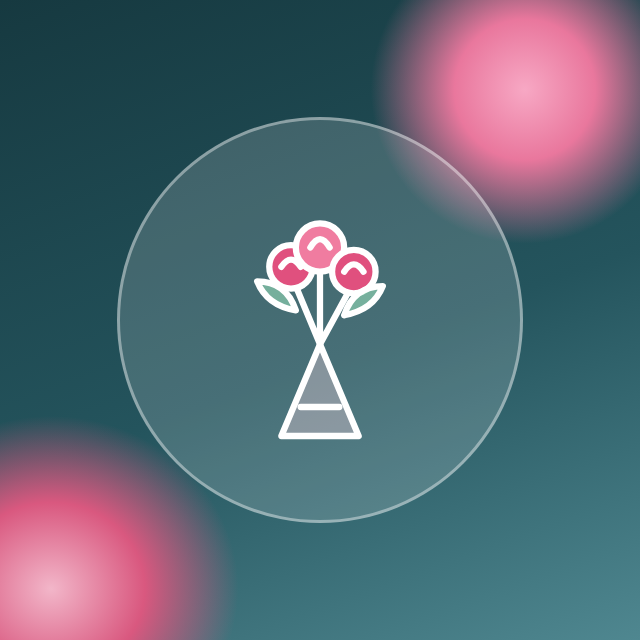
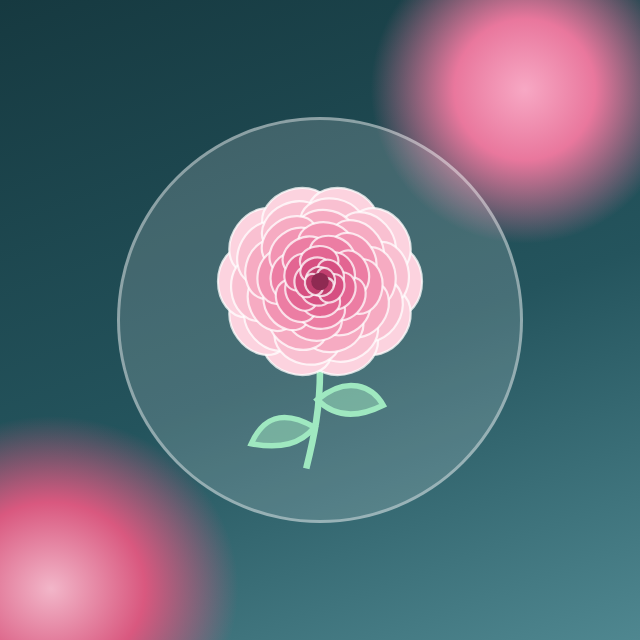
Фирменный цветок — ранункулюс вместо вазы
- brand/ranunculus.svg: многослойный ранункулюс с округлыми лепестками по спирали
- в кассе: логотип в шапке, значок вкладки, рисунок в пустых экранах (miniapp/img/)
- аватар и обложка бота перерисованы с ранункулюсом

Changed region(s): [[0.3125, 0.2812, 0.6875, 0.75]]

diff --git a/miniapp/js/app.js b/miniapp/js/app.js
@@ -37,19 +37,10 @@
     var h = new Date(Date.now() + 5 * 3600000).getUTCHours(); // время Алматы
     return h >= 5 && h < 12 ? 'Доброе утро' : h < 18 && h >= 12 ? 'Добрый день' : 'Добрый вечер';
   }
-  /** Линейный рисунок-букет для пустых экранов (без внешних файлов). */
-  var BOUQUET_SVG = '<svg viewBox="0 0 120 120" width="112" height="112" aria-hidden="true" fill="none" stroke="currentColor" stroke-width="2.2" stroke-linecap="round" stroke-linejoin="round">' +
-    '<path d="M44 108 L60 70 L76 108 Z" fill="rgba(252,214,226,.18)"/>' +
-    '<path d="M60 70 L50 46 M60 70 L60 40 M60 70 L72 48"/>' +
-    '<circle cx="48" cy="38" r="9" fill="rgba(224,80,126,.55)"/><circle cx="60" cy="30" r="10" fill="rgba(240,124,160,.6)"/><circle cx="74" cy="40" r="9" fill="rgba(224,80,126,.55)"/>' +
-    '<path d="M44 38 q4 -6 8 0 M56 30 q4 -7 8 0 M70 40 q4 -6 8 0"/>' +
-    '<path d="M50 56 q-12 -2 -16 -12 q12 0 16 12 M70 58 q12 -2 16 -12 q-12 0 -16 12" fill="rgba(159,232,192,.25)"/>' +
-    '<path d="M52 96 h16"/></svg>';
-
   /** Пустое состояние: рисунок, заголовок, пояснение, необязательная кнопка. */
   function emptyState(titleText, text, action) {
-    var pic = el('div', { class: 'empty__pic' });
-    pic.innerHTML = BOUQUET_SVG;
+    // Ранункулюс — фирменный цветок кассы (img/ranunculus.svg, тот же, что на аватаре бота).
+    var pic = el('div', { class: 'empty__pic' }, [el('img', { src: 'img/ranunculus.svg', width: '112', height: '112', alt: '' })]);
     return el('div', { class: 'card empty' }, [
       pic,
       el('div', { class: 'empty__title script', text: titleText }),

diff --git a/miniapp/index.html b/miniapp/index.html
@@ -9,6 +9,7 @@
   <link rel="preconnect" href="https://fonts.gstatic.com" crossorigin>
   <link rel="stylesheet" href="https://fonts.googleapis.com/css2?family=Cormorant+Garamond:ital,wght@1,500;1,600&family=Manrope:wght@400;500;600;700&display=swap">
   <link rel="stylesheet" href="https://cdn.jsdelivr.net/npm/@tabler/icons-webfont@3.19.0/dist/tabler-icons.min.css">
+  <link rel="icon" href="img/ranunculus.svg" type="image/svg+xml">
   <link rel="stylesheet" href="css/app.css">
   <script src="https://telegram.org/js/telegram-web-app.js"></script>
 </head>
@@ -20,7 +21,7 @@
     <span class="petal" style="left:92%;animation-delay:9.5s;background:#fcd6e2;width:10px;height:8px"></span>
   </div>
   <header class="top">
-    <i class="ti ti-flower" aria-hidden="true"></i>
+    <img class="top__logo" src="img/ranunculus.svg" width="34" height="34" alt="">
     <div><div class="top__title">Флора·Учёт</div><div class="top__sub">цветочная касса</div></div>
   </header>
   <main id="app" class="screen" aria-live="polite"><div class="sk-wrap" aria-busy="true" aria-label="Загрузка"><div class="sk sk--title"></div><div class="grid2"><div class="card sk-card"><div class="sk sk--big"></div></div><div class="card sk-card"><div class="sk sk--big"></div></div><div class="card sk-card"><div class="sk sk--big"></div></div><div class="card sk-card"><div class="sk sk--big"></div></div></div><div class="sk sk--btn"></div></div></main>

diff --git a/brand/cover.html b/brand/cover.html
@@ -12,8 +12,5 @@ h1{font-family:'Cormorant Garamond',serif;font-style:italic;font-weight:600;font
 .f{position:absolute;right:40px;bottom:30px}
 </style></head><body><div class="a"><h1>Флора·Учёт</h1><div class="s">ЦВЕТОЧНАЯ КАССА</div>
 <div class="r"><span class="p">Продажи и букеты</span><span class="p">Касса смены</span><span class="p">Склад</span><span class="p">Зарплата</span><span class="p">Отчёт владелице</span></div>
-<svg class="f" viewBox="0 0 120 120" width="150" height="150" fill="none" stroke="#fff" stroke-width="2.6" stroke-linecap="round" stroke-linejoin="round">
-<path d="M44 108 L60 70 L76 108 Z" fill="rgba(252,214,226,.35)"/><path d="M60 70 L50 46 M60 70 L60 40 M60 70 L72 48"/>
-<circle cx="48" cy="38" r="9" fill="#e0507e"/><circle cx="60" cy="30" r="10" fill="#f07ca0"/><circle cx="74" cy="40" r="9" fill="#e0507e"/>
-<path d="M50 56 q-12 -2 -16 -12 q12 0 16 12 M70 58 q12 -2 16 -12 q-12 0 -16 12" fill="rgba(159,232,192,.55)"/></svg>
+<img src="ranunculus.svg" width="190" height="190" class="f" style="position:absolute;right:30px;bottom:6px">
 </div></body></html>

diff --git a/brand/avatar.html b/brand/avatar.html
@@ -7,9 +7,5 @@ radial-gradient(260px 240px at 8% 92%,#f2b6c9 0,#d9587f 36%,transparent 72%),
 linear-gradient(160deg,#163940 0%,#24545d 55%,#4f8790 100%);display:flex;align-items:center;justify-content:center}
 .c{width:400px;height:400px;border-radius:50%;background:rgba(255,255,255,.16);border:3px solid rgba(255,255,255,.4);display:flex;align-items:center;justify-content:center}
 </style></head><body><div class="a"><div class="c">
-<svg viewBox="0 0 120 120" width="290" height="290" fill="none" stroke="#fff" stroke-width="2.6" stroke-linecap="round" stroke-linejoin="round">
-<path d="M44 108 L60 70 L76 108 Z" fill="rgba(252,214,226,.35)"/><path d="M60 70 L50 46 M60 70 L60 40 M60 70 L72 48"/>
-<circle cx="48" cy="38" r="9" fill="#e0507e"/><circle cx="60" cy="30" r="10" fill="#f07ca0"/><circle cx="74" cy="40" r="9" fill="#e0507e"/>
-<path d="M44 38 q4 -6 8 0 M56 30 q4 -7 8 0 M70 40 q4 -6 8 0"/>
-<path d="M50 56 q-12 -2 -16 -12 q12 0 16 12 M70 58 q12 -2 16 -12 q-12 0 -16 12" fill="rgba(159,232,192,.55)"/><path d="M52 96 h16"/></svg>
+<img src="ranunculus.svg" width="330" height="330">
 </div></div></body></html>

diff --git a/miniapp/css/app.css b/miniapp/css/app.css
@@ -80,7 +80,7 @@ body::before {
   -webkit-backdrop-filter: blur(14px); backdrop-filter: blur(14px);
   border-bottom: 1px solid rgba(255, 255, 255, .12);
 }
-.top i { font-size: 26px; color: var(--rose-soft); }
+.top__logo { width: 34px; height: 34px; margin: -4px 0 -6px -4px; filter: drop-shadow(0 2px 4px rgba(0,0,0,.25)); }
 .top__title { font-family: 'Cormorant Garamond', Georgia, serif; font-style: italic; font-weight: 600; font-size: 22px; line-height: 1; }
 .top__sub { font-size: 8px; letter-spacing: 2.2px; opacity: .78; text-transform: uppercase; }
 

diff --git a/brand/README.md b/brand/README.md
@@ -6,4 +6,4 @@
 | `cover.png` (640×360) | картинка в описании (видна до «Запустить») | @BotFather → `/setdescriptionpic` → выбрать бота → отправить файл как фото |
 
 Тексты описания ставит `connectBot()` (setMyDescription, setMyShortDescription).
-Исходники картинок — `avatar.html`, `cover.html` (поменять и пересохранить скриншотом Chrome 640×640 / 640×360).
+Фирменный цветок — ранункулюс: `ranunculus.svg` (он же в кассе: `miniapp/img/ranunculus.svg`, шапка и пустые экраны). Исходники картинок — `avatar.html`, `cover.html` (поменять и пересохранить скриншотом Chrome 640×640 / 640×360).
